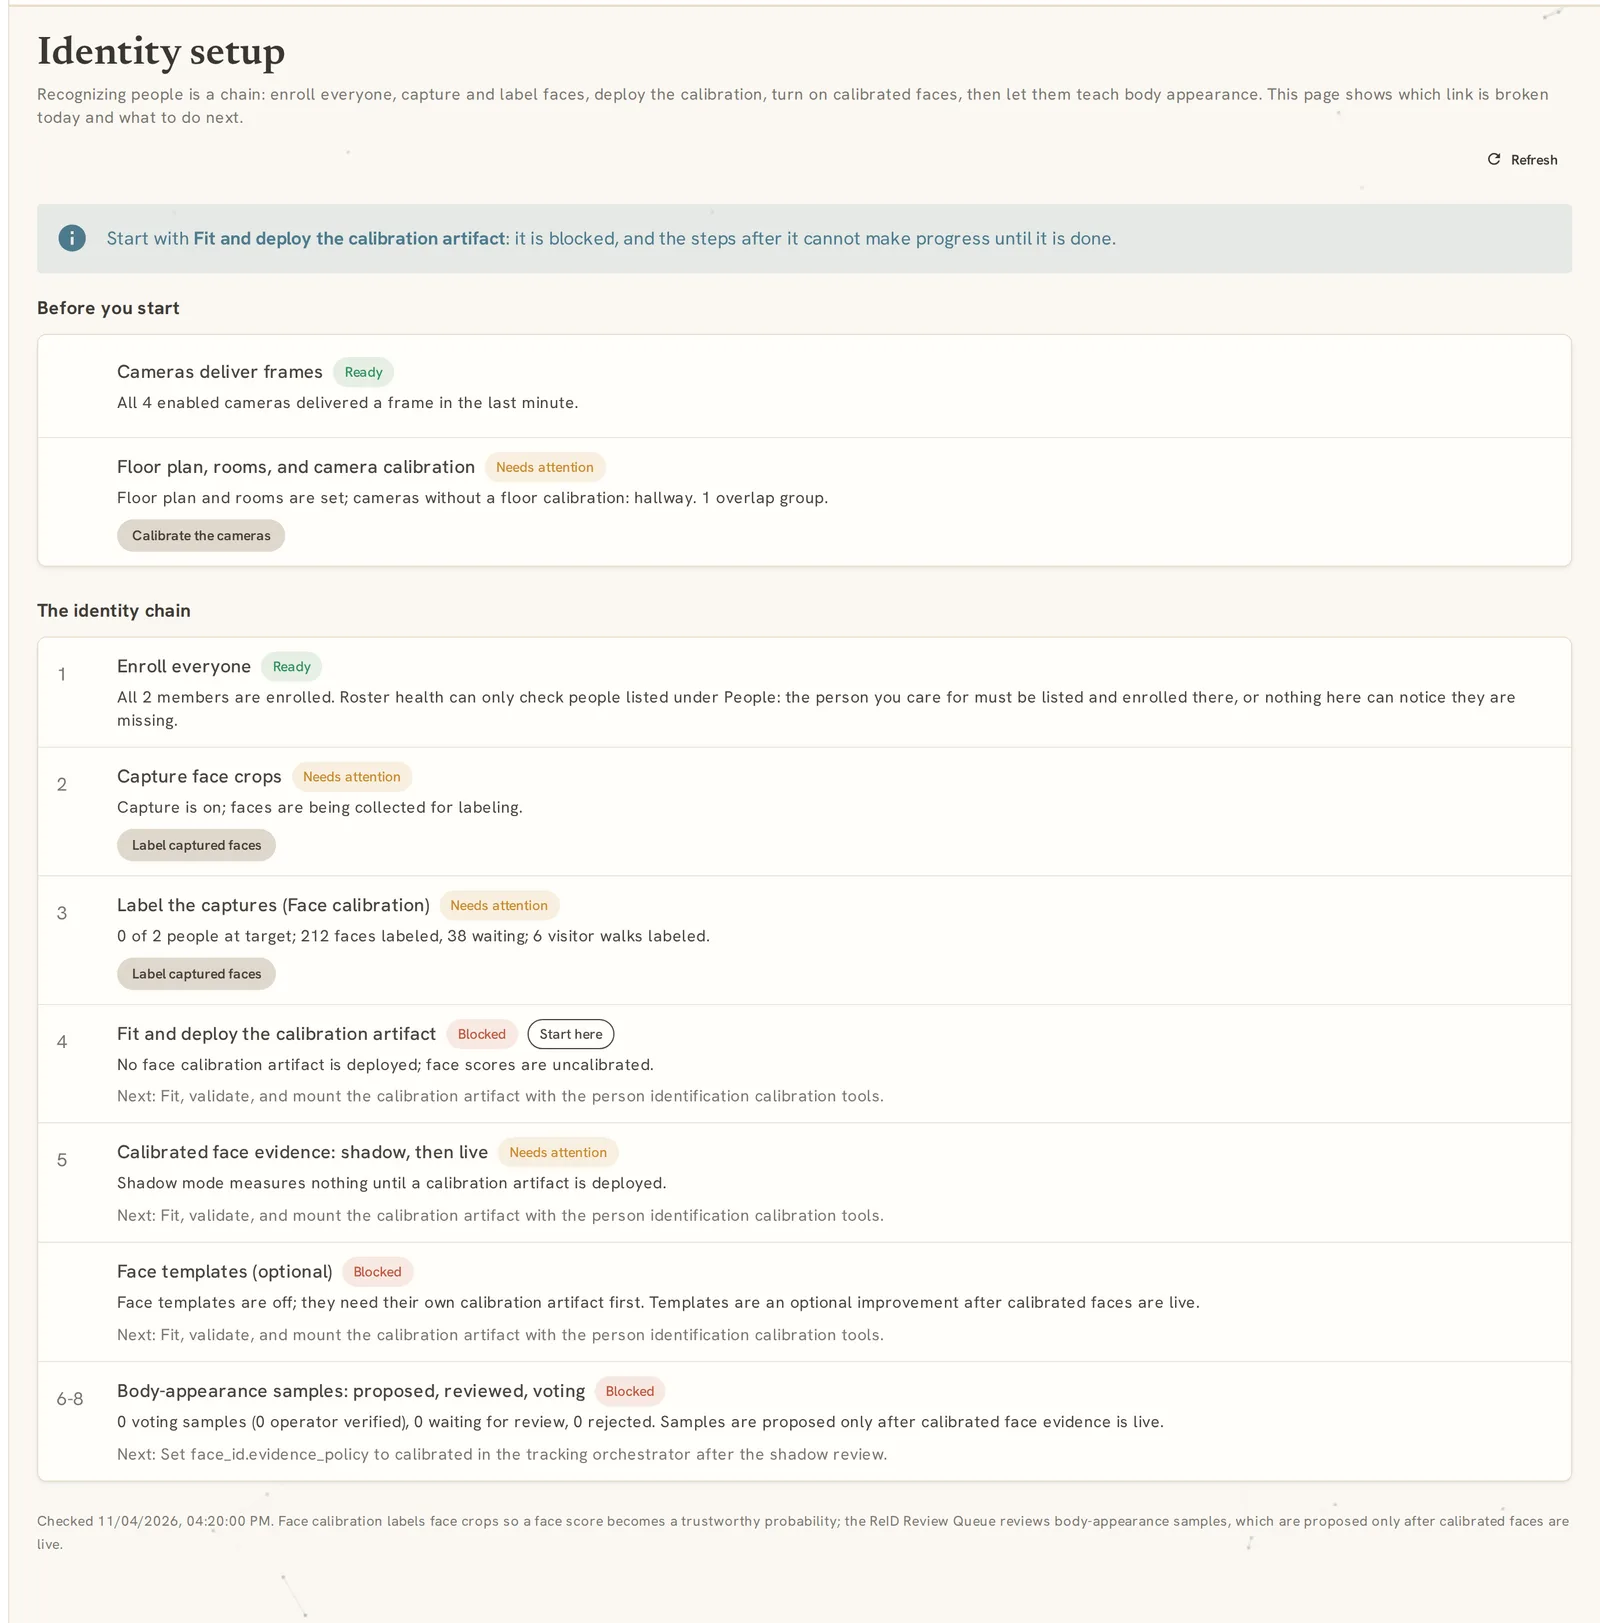
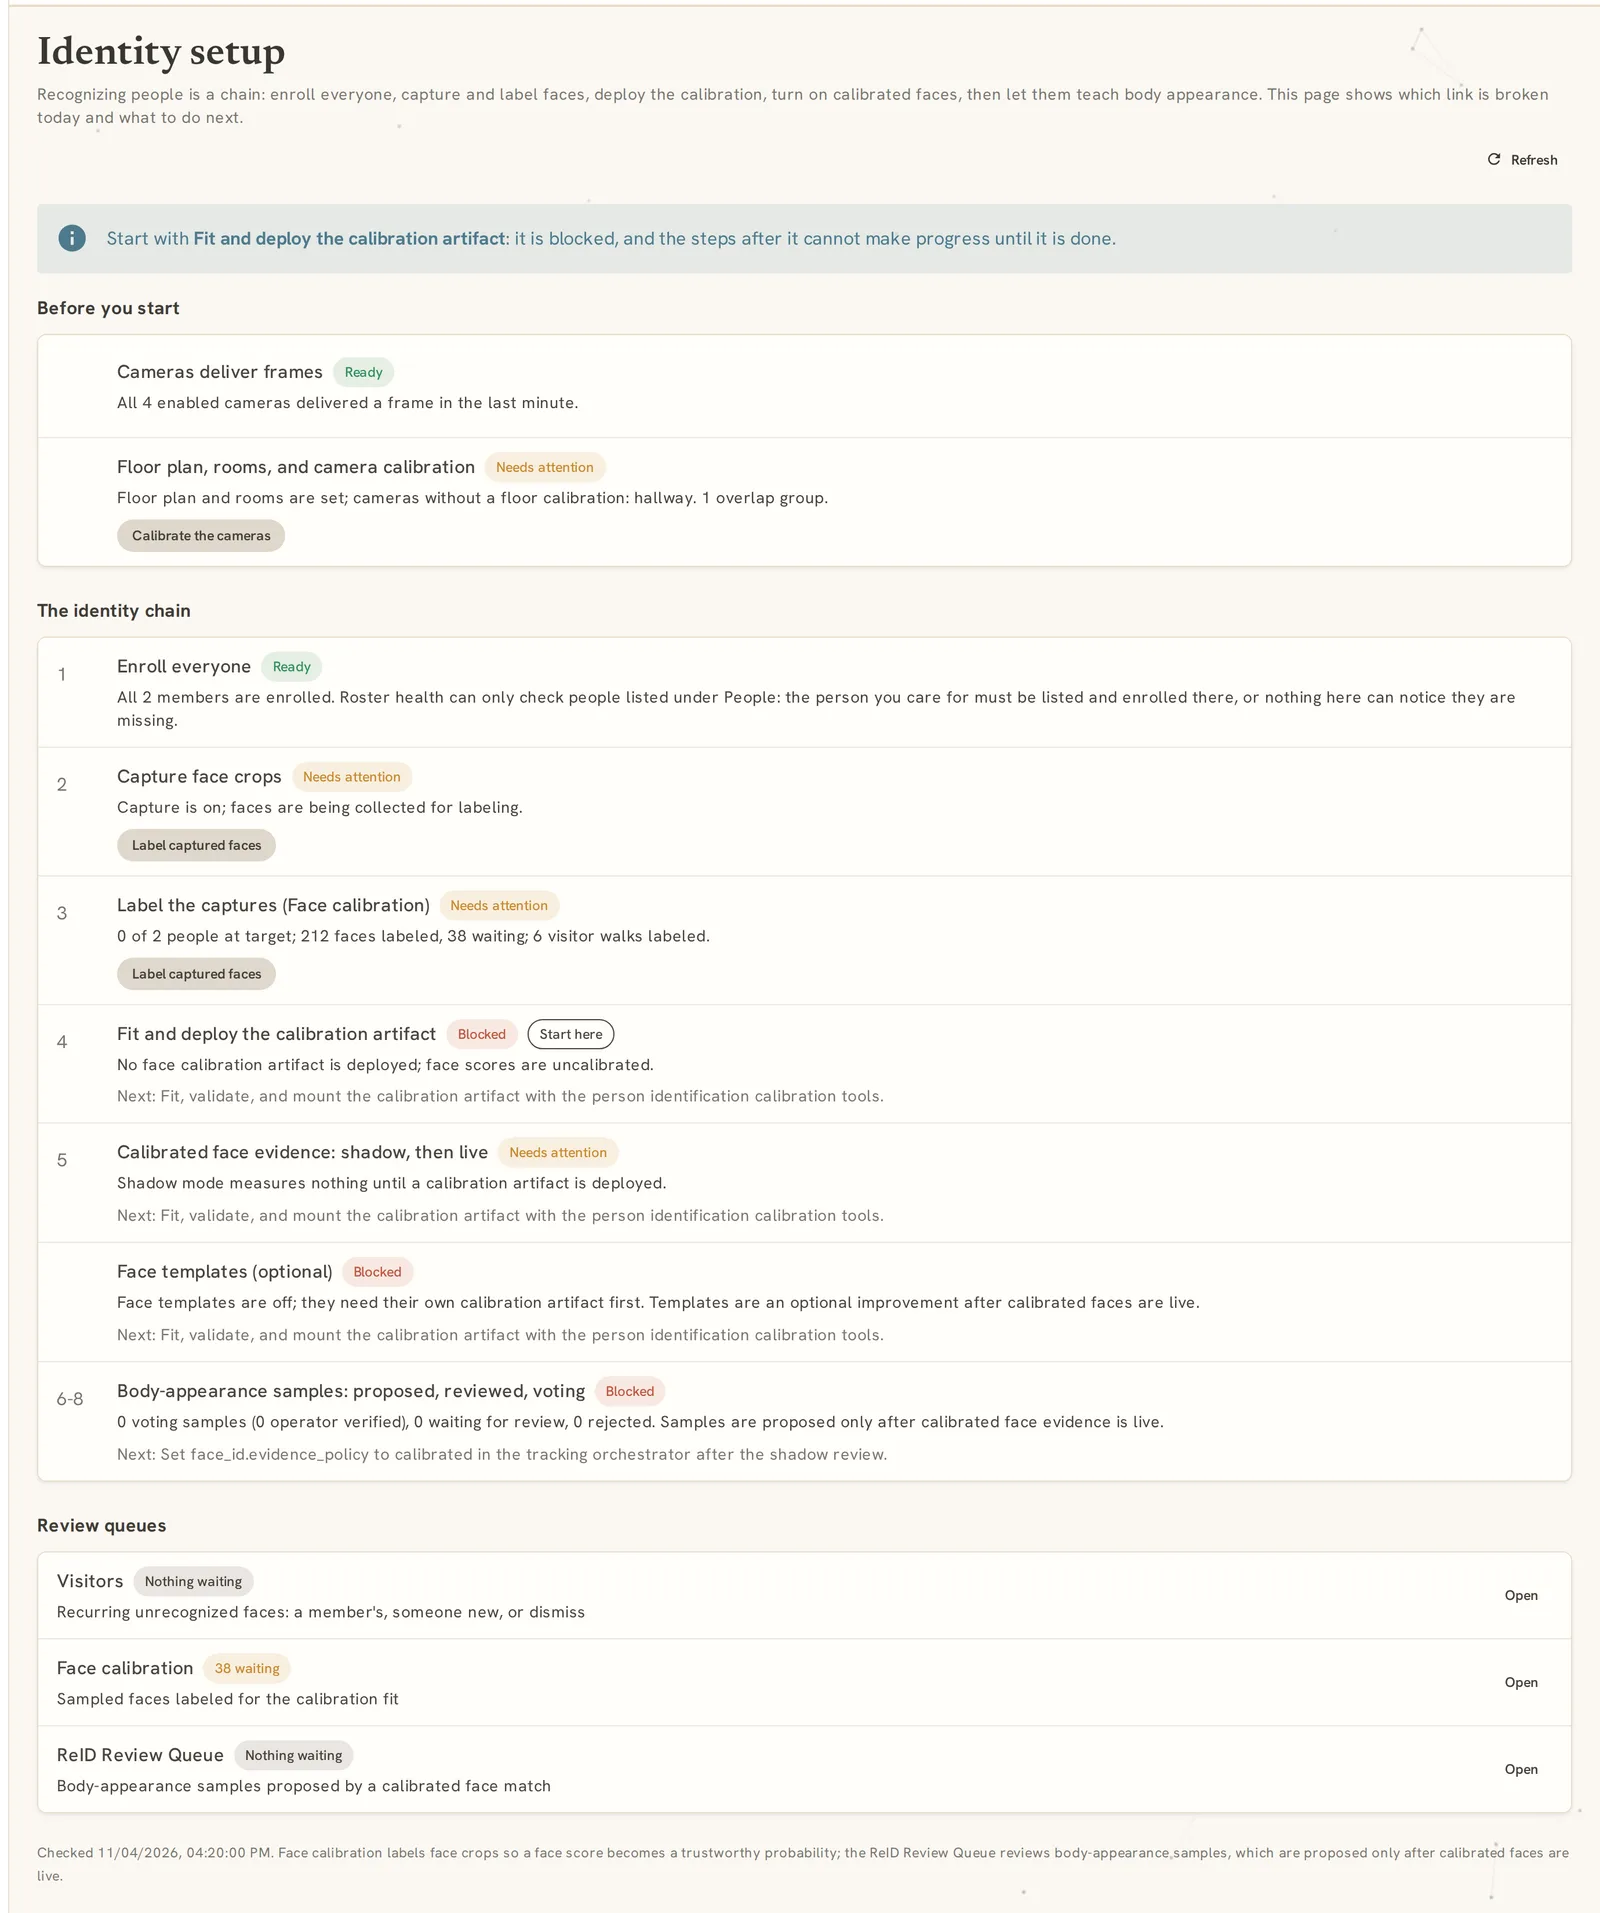
Identity review pages share their words, keys, and effect previews
Face calibration, recurring faces, and the ReID Review Queue now decide through
one verdict bar (numbers for members, n not in the household, x not usable) with
the system's own effect sentences; ReID approval still needs a confirm. Identity
setup lists every review queue with its waiting count; screenshot retaken.

diff --git a/docs/features/continuous-tracking/identity-integrity/identity-setup.md b/docs/features/continuous-tracking/identity-integrity/identity-setup.md
@@ -31,13 +31,15 @@ Two prerequisites sit beside the chain. **Cameras deliver frames**: a camera tha
 
 ## One way to say who someone is
 
-You decide who someone is in several places: labeling faces, reviewing recurring faces, reviewing body samples, and correcting a track. They work at different stages of the system, but every one picks from the same list of household members, in the same order, with the same names. Recurring-face review uses the words **Someone enrolled**, **Someone new**, and **Dismiss**, and says what each choice changes before you confirm it. Only naming someone new adds faces to a person's enrollment; every other decision leaves how the system recognizes people unchanged.
+You decide who someone is in several places: labeling faces, reviewing recurring faces, reviewing body samples, and correcting a track. They work at different stages of the system, but every one picks from the same list of household members, in the same order, with the same names. Face labeling, recurring-face review, and body-sample review also share their words and keys: a number picks a household member, **n** means someone not in the household, and **x** means not usable. Recurring faces add **Someone new** and offer one **Dismiss** for both negative choices, because a dismissed group closes the same way either way. Each page shows, before you confirm, what the choice will change, in words that come from the system itself, and says under its buttons which choices can change enrollment. Only naming someone new adds faces to a person's enrollment; every other decision leaves how the system recognizes people by face unchanged. Choosing a member on a body sample still asks you to confirm, because it lets that sample vote. To decide about many items at once, use **Select several** on Recurring faces and on the ReID Review Queue; a group decision is never an approval.
+
+The page also lists every review queue (Visitors, Face Calibration, the ReID Review Queue) with how many items are waiting and a link to each. A queue whose service did not answer says **Count unavailable**, never zero.
 
 ## Reading the page
 
 Each step shows one state and, when something is needed, one next action. The first blocked step is marked **Start here**.
 
-<img src="/screens/identity-setup.webp" width="1600" height="1623" loading="lazy" alt="The Identity Setup page: camera and floor prerequisites, then the numbered identity chain with a state and next action for each step, and the calibration artifact marked Start here" />
+<img src="/screens/identity-setup.webp" width="1600" height="1913" loading="lazy" alt="The Identity Setup page: camera and floor prerequisites, then the numbered identity chain with a state and next action for each step, and the calibration artifact marked Start here, then the review queues with how many items wait in each" />
 
 | State | Meaning |
 | --- | --- |

diff --git a/docs/features/continuous-tracking/identity-integrity/reid-gallery-governance.md b/docs/features/continuous-tracking/identity-integrity/reid-gallery-governance.md
@@ -91,15 +91,23 @@ as the rest of the tracking admin, gated by the gallery-review permission below.
 When the queue has never held a candidate and calibrated faces are not live yet, its empty state
 says no samples can be proposed and links to [Identity setup](/features/continuous-tracking/identity-integrity/identity-setup).
 
+The drawer uses the decision bar every identity review page shares. Household members are
+numbered (keys 1 to 9) and the proposed one is highlighted: choosing it approves, choosing anyone
+else relabels, and either way a confirm states the effect first, so no key approves on its own.
+**Not in the household** (`n`) rejects as `wrong_person`; **Not usable** (`x`) asks which kind
+(low quality, bad box, identity uncertain, duplicate, other) and rejects with that reason. Demote
+sits beside them for an `auto_verified` row.
+
 The queue exposes only individual approve, individual relabel, individual demote, and reject
-(single or batch). There is no bulk approve control or endpoint: every candidate that becomes
-`operator_verified` passes through a single deliberate approve or relabel action.
+(single or batch). **Select several** offers only the two rejections for many samples at once.
+There is no bulk approve control or endpoint: every candidate that becomes `operator_verified`
+passes through a single deliberate approve or relabel action.
 
 ### Approval is gated on live server eligibility
 
 The server computes eligibility for each candidate from its current state, crop truncation and
-occlusion, and model and preprocessing compatibility. The detail drawer disables Approve when
-eligibility is false and lists the reasons. The server re-checks eligibility and the optimistic
+occlusion, and model and preprocessing compatibility. The detail drawer disables every member choice
+when eligibility is false and lists the reasons. The server re-checks eligibility and the optimistic
 `audit_version` on every approve and relabel, so a stale or now-ineligible candidate returns `409`
 (`reid_review.stale` or `reid_review.ineligible`) and the browser refreshes instead of forcing the change through. The browser cannot fabricate eligibility or override a failed quality gate.
 

diff --git a/docs/development/face-confidence-calibration.md b/docs/development/face-confidence-calibration.md
@@ -46,7 +46,7 @@ Unlabeled and rejected captures, with their crops, are deleted after `unlabeled_
 
 ### 2. Label
 
-An admin labels captures in Cognitive Companion at People, Face Calibration (`/admin/face-calibration`, permission `face_calibration.review`). Each capture is one keystroke: a number for a resident, `n` for someone who is not enrolled, `x` for not a face. Rejecting marks a capture unusable; deleting removes it and its crop. The labeler recorded is the signed-in admin.
+An admin labels captures in Cognitive Companion at People, Face Calibration (`/admin/face-calibration`, permission `face_calibration.review`). Each capture is one keystroke with the keys every review page shares: a number for a resident, `n` for someone not in the household, `x` for not usable (stored as `not_a_face`, which the fit skips). No member is highlighted, so the closest match never steers a ground-truth label. **Reject capture** sets a capture aside; deleting removes it and its crop. Each choice's effect comes from the server, and the page states that labels never change enrollment. The labeler recorded is the signed-in admin.
 
 A label never changes enrollment. Calibration data and the enrollment gallery stay separate; only an explicit enrollment or visitor naming adds faces to the gallery.
 
